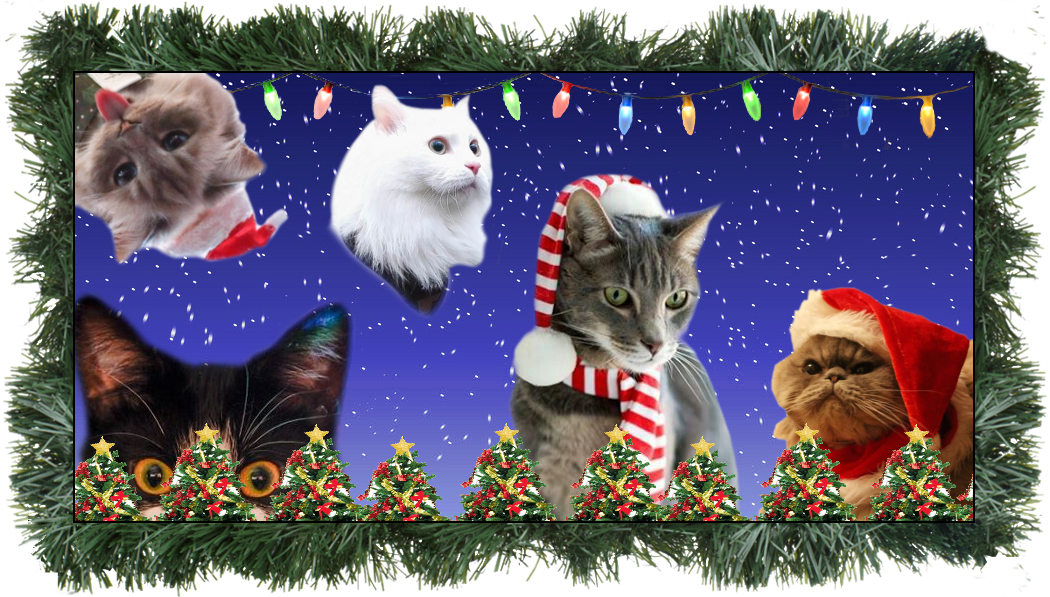
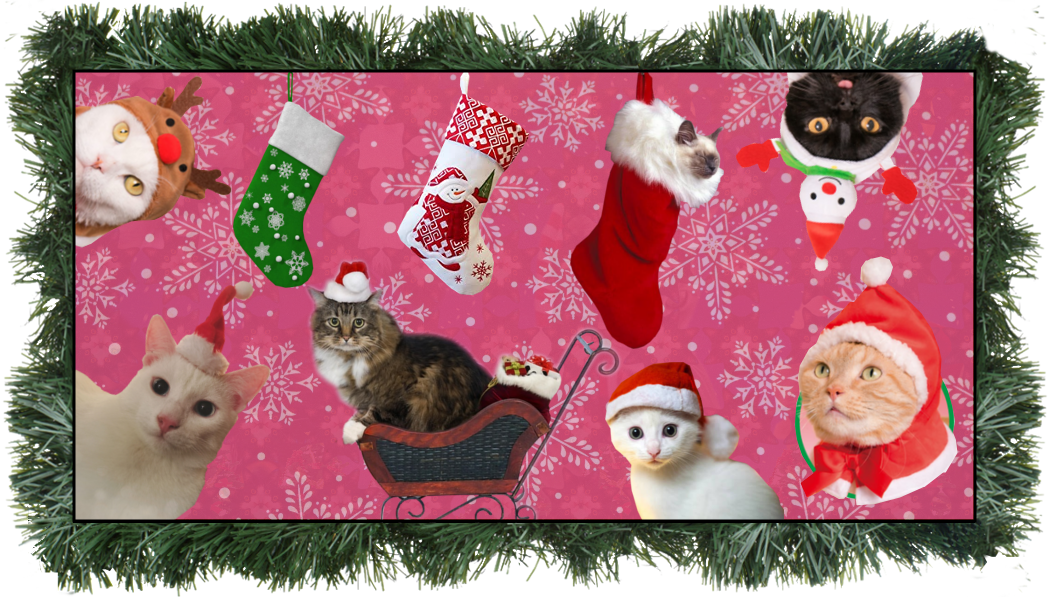
year 2021

diff --git a/index.html b/index.html
@@ -1,19 +1,19 @@
 <!DOCTYPE html>
 <html lang="fi">
 	<head>
-		<title>Kissakalenteri 2020!</title>
+		<title>Kissakalenteri 2021!</title>
 		<meta charset="UTF-8"/>
 		<meta property="fb:admins" content="576790613" />
 		<meta property="fb:admins" content="663968960" />
 		<meta property="og:image" content="http://www.kissakalenteri.fi/fb_share.jpg" />
-		<meta property="og:title" content="Kissakalenteri 2020!" />
+		<meta property="og:title" content="Kissakalenteri 2021!" />
 		<meta property="og:type" content="website" />
 		<meta property="og:url" content="http://kissakalenteri.fi/" />
 		<meta property="og:description" content="Joulukalenteri kissoille ja kissanmielisille!" />
 		<meta property="fb:app_id" content="555856014752587" />
 		
 		<meta name="twitter:card" content="summary_large_image" />
-		<meta name="twitter:title" content="Kissakalenteri 2020!" />
+		<meta name="twitter:title" content="Kissakalenteri 2021!" />
 		<meta name="twitter:description" content="Joulukalenteri kissoille ja kissanmielisille!" />
 		<meta name="twitter:image:src" content="http://www.kissakalenteri.fi/fb_share.jpg" />
 		
@@ -22,48 +22,51 @@
     </head>
     <body>
 		<div id="behind-content">
-			<div id="main-content">
-				<img src="images/logo.gif" id="logo-image" />
-				<div id="loading-indicator">
-					Ladataan...
-				</div>
+			<div id="second-bg">
+				<div id="main-content">
+					<img src="images/logo.gif" id="logo-image" />
+					<div id="loading-indicator">
+						Ladataan...
+					</div>
 
-				<div id="background-blurrer"></div>
+					<div id="background-blurrer"></div>
 
-				<img src="images/cornercat.png" id="cornercat" />
-				<img src="images/infobubble2.png" id="info-bubble" />
+					<img src="images/cornercat.png" id="cornercat" />
+					<img src="images/infobubble2.png" id="info-bubble" />
 
-				<div id="calendar-image">
-				</div>
-				
-				<div id="image-display">
-					<div id="image-closer">X</div>
-				</div>
+					<div id="calendar-image">
+					</div>
+					
+					<div id="image-display">
+						<div id="image-closer">X</div>
+					</div>
 
-				<div id="info-display">
-					<a href="2014/">2014</a> |
-					<a href="2015/">2015</a> |
-					<a href="2016/">2016</a> |
-					<a href="2017/">2017</a> |
-					<a href="2018/">2018</a> |
-					<a href="2019/">2019</a>
-				</div>
+					<div id="info-display">
+						<a href="https://www.kissakalenteri.fi/2014/">2014</a> |
+						<a href="https://www.kissakalenteri.fi/2015/">2015</a> |
+						<a href="https://www.kissakalenteri.fi/2016/">2016</a> |
+						<a href="https://www.kissakalenteri.fi/2017/">2017</a> |
+						<a href="https://www.kissakalenteri.fi/2018/">2018</a> |
+						<a href="https://www.kissakalenteri.fi/2019/">2019</a> |
+						<a href="https://www.kissakalenteri.fi/2020/">2020</a>
+					</div>
 
-				<div id="cat-music">
-					<audio autoplay controls>
-						<source src="audio/khussaBiisi.mp3" type="audio/mpeg">
-						Selaimesi ei tue musiikkia. Et kuule kissamusiikkia. :(
-					</audio>
-				</div>
+					<div id="cat-music">
+						<audio autoplay controls>
+							<source src="audio/khussaBiisi.mp3" type="audio/mpeg">
+							Selaimesi ei tue musiikkia. Et kuule kissamusiikkia. :(
+						</audio>
+					</div>
 
-				<div id="bottom"></div>
-				<img src="images/bottom_cat.gif" id="bottom-cat" />
+					<div id="bottom"></div>
+					<img src="images/bottom_cat.gif" id="bottom-cat" />
 
-				<img src="images/bottom_tree.png" id="bottom-tree" />
-				
-				<img src="images/skicat_infobubble.png" id="skicat-bubble" />
-				<div id="skicat">
-					<img src="images/hiihtokissa.gif" id="skicat-img" />
+					<img src="images/bottom_tree.png" id="bottom-tree" />
+					
+					<img src="images/skicat_infobubble.png" id="skicat-bubble" />
+					<div id="skicat">
+						<img src="images/hiihtokissa.gif" id="skicat-img" />
+					</div>
 				</div>
 			</div>
 		</div>

diff --git a/app.js b/app.js
@@ -5,7 +5,7 @@ var HEIGHT = 0;
 var CALENDAR_ORIGINAL_WIDTH = 0;
 var CALENDAR_ORIGINAL_HEIGHT = 0;
 var LOGO_ORIGINAL_WIDTH = 0;
-var WINDOW_DEFAULT_SIZE = 100;
+var WINDOW_DEFAULT_SIZE = 90;
 
 var RESOURCES_LOADED = false;
 var DATA_LOADED = false;
@@ -15,7 +15,7 @@ var WINDOWS = [
 	{ x: 0.81, y: 0.45, size: 1 },
 	{ x: 0.41, y: 0.53, size: 1 },
 	{ x: 0.69, y: 0.14, size: 1 },
-	{ x: 0.69, y: 0.31, size: 1 },
+	{ x: 0.68, y: 0.32, size: 1 },
 	{ x: 0.45, y: 0.15, size: 1, target: "itsenaisyys.php" },
 	{ x: 0.10, y: 0.16, size: 1 },
 	{ x: 0.59, y: 0.67, size: 1 },
@@ -25,11 +25,11 @@ var WINDOWS = [
 	{ x: 0.82, y: 0.68, size: 1 },
 	{ x: 0.08, y: 0.33, size: 1 },
 	{ x: 0.09, y: 0.68, size: 1 },
-	{ x: 0.30, y: 0.69, size: 1 },
+	{ x: 0.31, y: 0.695, size: 1 },
 	{ x: 0.21, y: 0.33, size: 1 },
 	{ x: 0.57, y: 0.25, size: 1 },
 	{ x: 0.81, y: 0.26, size: 1 },
-	{ x: 0.21, y: 0.14, size: 1 },
+	{ x: 0.22, y: 0.14, size: 1 },
 	{ x: 0.14, y: 0.51, size: 1 },
 	{ x: 0.25, y: 0.53, size: 1 },
 	{ x: 0.71, y: 0.55, size: 1 },

diff --git a/styles.css b/styles.css
@@ -32,7 +32,15 @@ body {
     height: 100%;
     margin: 0px;
     padding: 0px;
-    background-color: #9e1818d7;
+    background: url("images/bg_anim.gif");
+}
+
+#second-bg {
+    width: 100%;
+    height: 100%;
+    margin: 0px;
+    padding: 0px;
+    background-color: #189e45d7;
 }
 
 #main-content {
@@ -40,15 +48,15 @@ body {
     height: 100%;
     margin: 0px;
     padding: 0px;
-    background: url("images/bg_anim.gif");
+    background: url("images/second_bg_anim.gif");
 }
 
 #calendar-image {
     background: url('images/calendar.png') no-repeat;
     background-size: 100%;
     position: fixed;
-    width: 1200px;
-    height: 682px;
+    width: 1050px;
+    height: 597px;
     padding: 0px;
     margin: 0px;
     z-index: 10;

diff --git a/itsenaisyys.php b/itsenaisyys.php
@@ -26,24 +26,24 @@ function validDate($year, $day) {
 	return false;
 }
 
-if(validDate(2020, 6)) {
+if(validDate(2021, 6)) {
 ?>
 <!DOCTYPE html>
 <html lang="fi">
 	<head>
-		<title>Hyvää itsenäisyyspäivää 2020!</title>
+		<title>Hyvää itsenäisyyspäivää 2021!</title>
 		<meta charset="UTF-8"/>
 		<meta property="fb:admins" content="576790613" />
 		<meta property="fb:admins" content="663968960" />
 		<meta property="og:image" content="http://www.kissakalenteri.fi/fb_share.jpg" />
-		<meta property="og:title" content="Kissakalenteri 2020!" />
+		<meta property="og:title" content="Kissakalenteri 2021!" />
 		<meta property="og:type" content="website" />
 		<meta property="og:url" content="http://kissakalenteri.fi/" />
 		<meta property="og:description" content="Joulukalenteri kissoille ja kissanmielisille!" />
 		<meta property="fb:app_id" content="555856014752587" />
 		
 		<meta name="twitter:card" content="summary_large_image" />
-		<meta name="twitter:title" content="Kissakalenteri 2020!" />
+		<meta name="twitter:title" content="Kissakalenteri 2021!" />
 		<meta name="twitter:description" content="Joulukalenteri kissoille ja kissanmielisille!" />
 		<meta name="twitter:image:src" content="http://www.kissakalenteri.fi/fb_share.jpg" />
 		
@@ -55,7 +55,7 @@ if(validDate(2020, 6)) {
 			<div id="main-content">
 				<img src="images/independence_logo.png" id="logo-image" />
 
-                <img src="https://www.kissakalenteri.fi/api/2020/6" id="independence-cat" />
+                <img src="https://www.kissakalenteri.fi/api/2021/6" id="independence-cat" />
 
 				<div id="cat-music">
 					<audio autoplay controls>

diff --git a/aatto.php b/aatto.php
@@ -26,24 +26,24 @@ function validDate($year, $day) {
 	return false;
 }
 
-if(validDate(2020, 24)) {
+if(validDate(2021, 24)) {
 ?>
 <!DOCTYPE html>
 <html lang="fi">
 	<head>
-		<title>Mauhtavaa joulua 2020!</title>
+		<title>Mauhtavaa joulua 2021!</title>
 		<meta charset="UTF-8"/>
 		<meta property="fb:admins" content="576790613" />
 		<meta property="fb:admins" content="663968960" />
 		<meta property="og:image" content="http://www.kissakalenteri.fi/fb_share.jpg" />
-		<meta property="og:title" content="Kissakalenteri 2020!" />
+		<meta property="og:title" content="Kissakalenteri 2021!" />
 		<meta property="og:type" content="website" />
 		<meta property="og:url" content="http://kissakalenteri.fi/" />
 		<meta property="og:description" content="Joulukalenteri kissoille ja kissanmielisille!" />
 		<meta property="fb:app_id" content="555856014752587" />
 		
 		<meta name="twitter:card" content="summary_large_image" />
-		<meta name="twitter:title" content="Kissakalenteri 2020!" />
+		<meta name="twitter:title" content="Kissakalenteri 2021!" />
 		<meta name="twitter:description" content="Joulukalenteri kissoille ja kissanmielisille!" />
 		<meta name="twitter:image:src" content="http://www.kissakalenteri.fi/fb_share.jpg" />
 		
